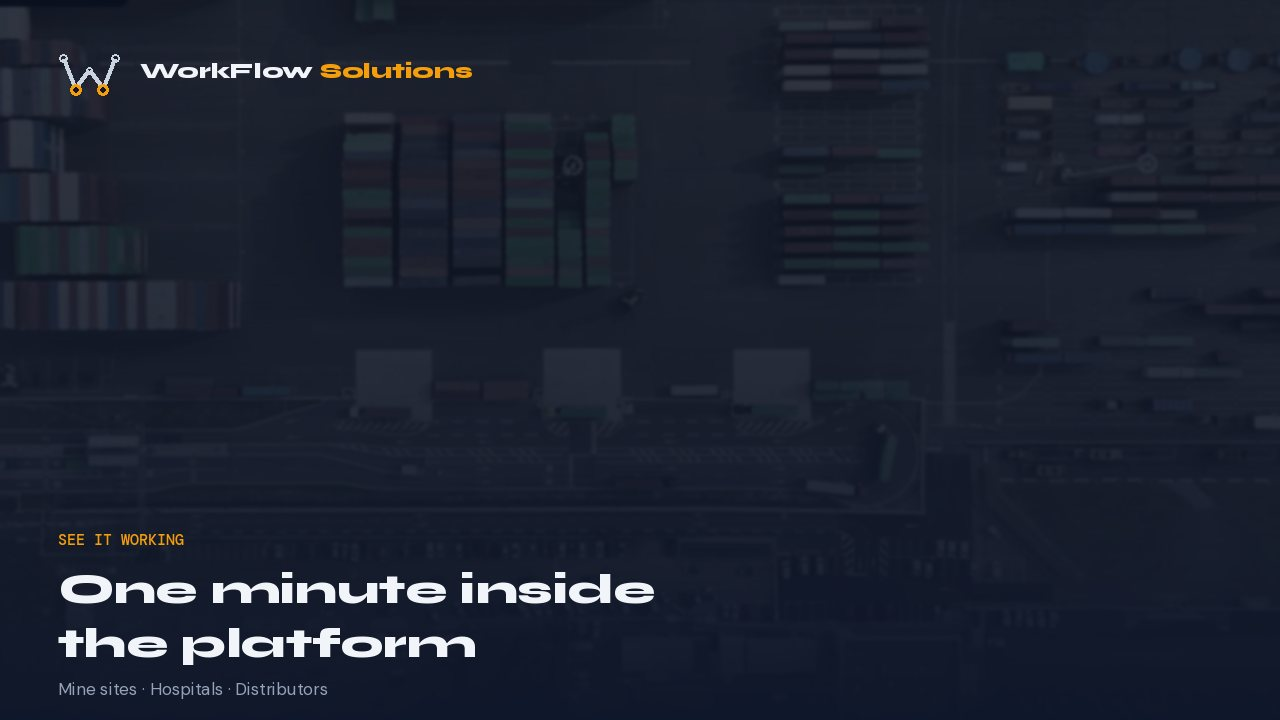
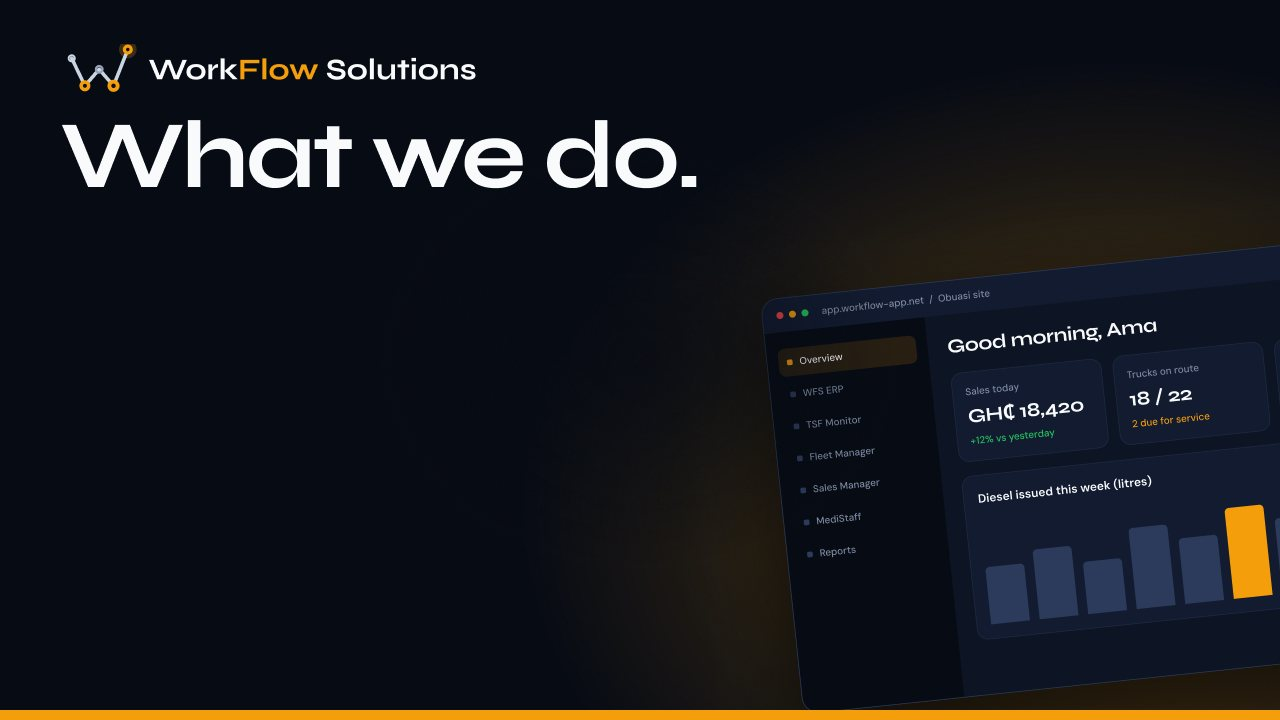
Video section: new poster, nothing covering the player
- New poster in the current brand (Momentum logo, the video's title
  "What we do.", the dashboard low on the right). The old one still had the
  previous logo, and its own heading sat under the play button and the
  duration pill. The centre and bottom-left are now kept clear for them.
- The jump-to-top/bottom buttons step aside while the video is on screen;
  on phones they sat over the player's fullscreen control.
- A smaller play button and duration pill on phones.

Checked: the video (KUwKkDLP2jg, "What we do.", 1:11) is embeddable, plays
from youtube-nocookie.com on click, and the CSP allows the frame.

diff --git a/index.html b/index.html
@@ -313,6 +313,7 @@ main:focus{outline:none}
 .play-btn{display:grid;place-items:center;width:88px;height:88px;border-radius:50%;background:var(--amber);box-shadow:0 0 0 14px rgba(245,158,11,.2);transition:transform .4s var(--ease)}
 .video-facade:hover .play-btn{transform:scale(1.06)}
 .play-btn svg{width:32px;height:32px;margin-left:4px;fill:var(--ink)}
+@media (max-width:599px){.play-btn{width:64px;height:64px;box-shadow:0 0 0 10px rgba(245,158,11,.2)}.play-btn svg{width:24px;height:24px;margin-left:3px}.video-meta{left:12px;bottom:12px;padding:6px 12px;font-size:13px}}
 .video-meta{position:absolute;left:20px;bottom:20px;padding:8px 14px;border-radius:999px;background:rgba(7,11,20,.8);font-size:14px}
 .video-frame iframe{position:absolute;inset:0;width:100%;height:100%;border:0}
 
@@ -1057,17 +1058,22 @@ if(motion && 'IntersectionObserver' in window){
 /* ── JUMP TO TOP / BOTTOM ───────────────────
    Shown once the page has scrolled a screen's worth; the up arrow hides at
    the top and the down arrow at the bottom. Focus moves with the jump so
-   keyboard users land where they went. */
+   keyboard users land where they went. They step aside while the video is
+   on screen, so they never sit over the player's controls. */
 (function(){
   var box=document.getElementById('jump'),up=document.getElementById('jump-top'),down=document.getElementById('jump-end');
   if(!box)return;
-  var ticking=false;
+  var ticking=false,overVideo=false;
   function update(){
     ticking=false;
     var y=window.scrollY,max=document.documentElement.scrollHeight-window.innerHeight;
     up.hidden=y<400;
     down.hidden=max-y<400;
-    box.classList.toggle('show',y>=400||!down.hidden&&y>0);
+    box.classList.toggle('show',!overVideo&&(y>=400||!down.hidden&&y>0));
+  }
+  var player=document.querySelector('#video:not([hidden]) .video-frame');
+  if(player&&'IntersectionObserver' in window){
+    new IntersectionObserver(function(entries){overVideo=entries[0].isIntersecting;update()},{threshold:0.25}).observe(player);
   }
   window.addEventListener('scroll',function(){if(!ticking){ticking=true;requestAnimationFrame(update)}},{passive:true});
   window.addEventListener('resize',update,{passive:true});
